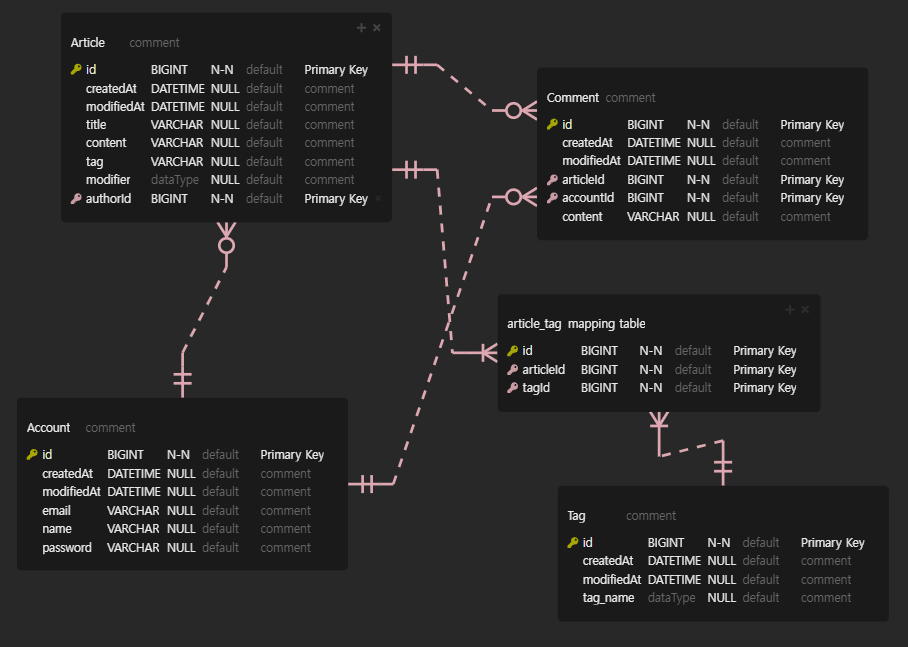
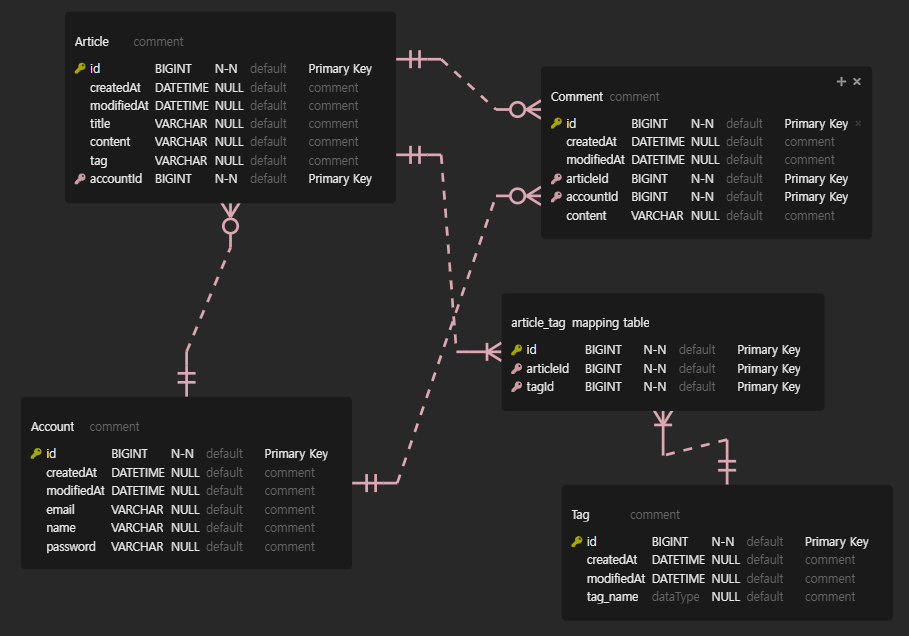
feat: Domain design
기본적인 도메인 설계 및 ERD 수정

diff --git a/basic-board/src/main/java/com/hou27/basicboard/domain/Comment.java b/basic-board/src/main/java/com/hou27/basicboard/domain/Comment.java
@@ -1,0 +1,17 @@
+package com.hou27.basicboard.domain;
+
+import java.time.LocalDateTime;
+
+public class Comment {
+  private int id;
+
+  private LocalDateTime createdAt;
+
+  private LocalDateTime modifiedAt;
+
+  private int articleId;
+
+  private int accountId;
+
+  private String content;
+}

diff --git a/basic-board/src/main/java/com/hou27/basicboard/domain/Article.java b/basic-board/src/main/java/com/hou27/basicboard/domain/Article.java
@@ -1,0 +1,17 @@
+package com.hou27.basicboard.domain;
+
+import java.time.LocalDateTime;
+
+public class Article {
+  private int id;
+
+  private LocalDateTime createdAt;
+
+  private LocalDateTime modifiedAt;
+
+  private String title;
+
+  private String content;
+
+  private int accountId;
+}
